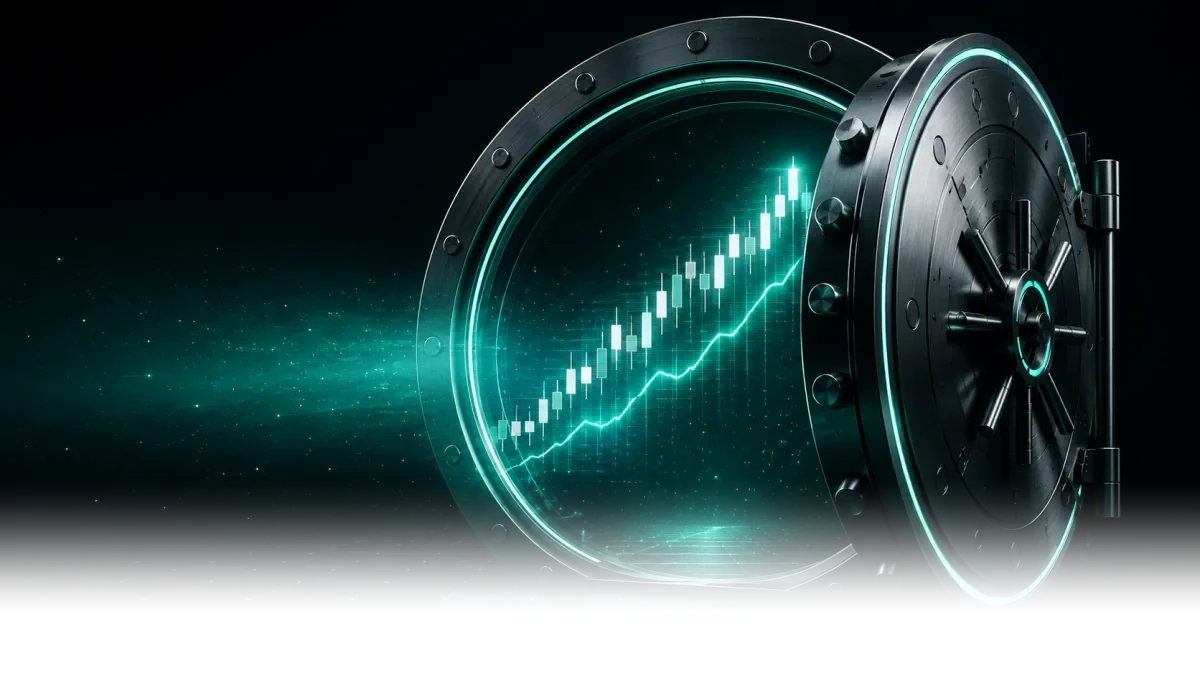
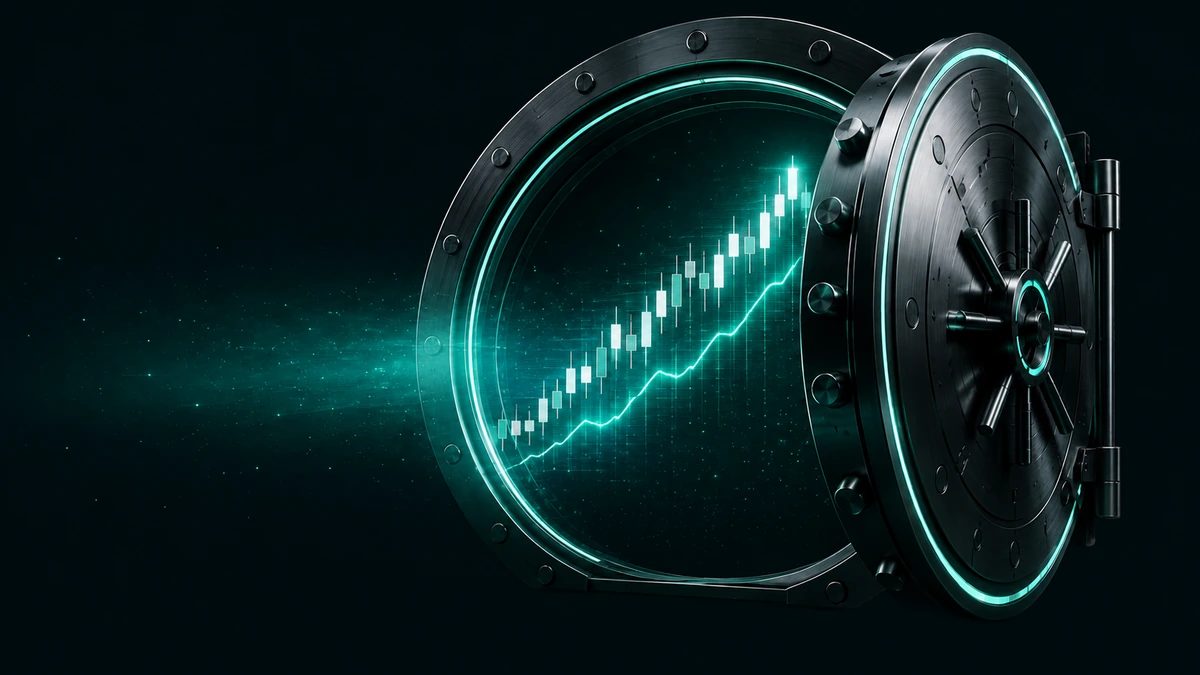
Swap vault image: Vault image 2.png → vault-hero-nofloor.webp

diff --git a/index.html b/index.html
@@ -166,7 +166,7 @@
 }
 </style>
 <!-- PRELOAD_HERO_START -->
-<link rel="preload" as="image" href="assets/images/vault-hero-nofloor.webp?v=202605230942" fetchpriority="high">
+<link rel="preload" as="image" href="assets/images/vault-hero-nofloor.webp?v=202605232330" fetchpriority="high">
 <!-- PRELOAD_HERO_END -->
 <!-- FONTS_BLOCK_START -->
 <link rel="preload" as="font" type="font/woff2" crossorigin href="assets/fonts/inter-400.woff2">
@@ -759,7 +759,7 @@
     </div>
 
     <div class="media">
-      <img fetchpriority="high" class="vault-hero__img" src="assets/images/vault-hero-nofloor.webp?v=202605230942" alt="TradeFundrr funded-account vault with growing trading chart"  width="1200" height="676" decoding="async" />
+      <img fetchpriority="high" class="vault-hero__img" src="assets/images/vault-hero-nofloor.webp?v=202605232330" alt="TradeFundrr funded-account vault with growing trading chart"  width="1200" height="676" decoding="async" />
     </div>
   </div>
 </section>